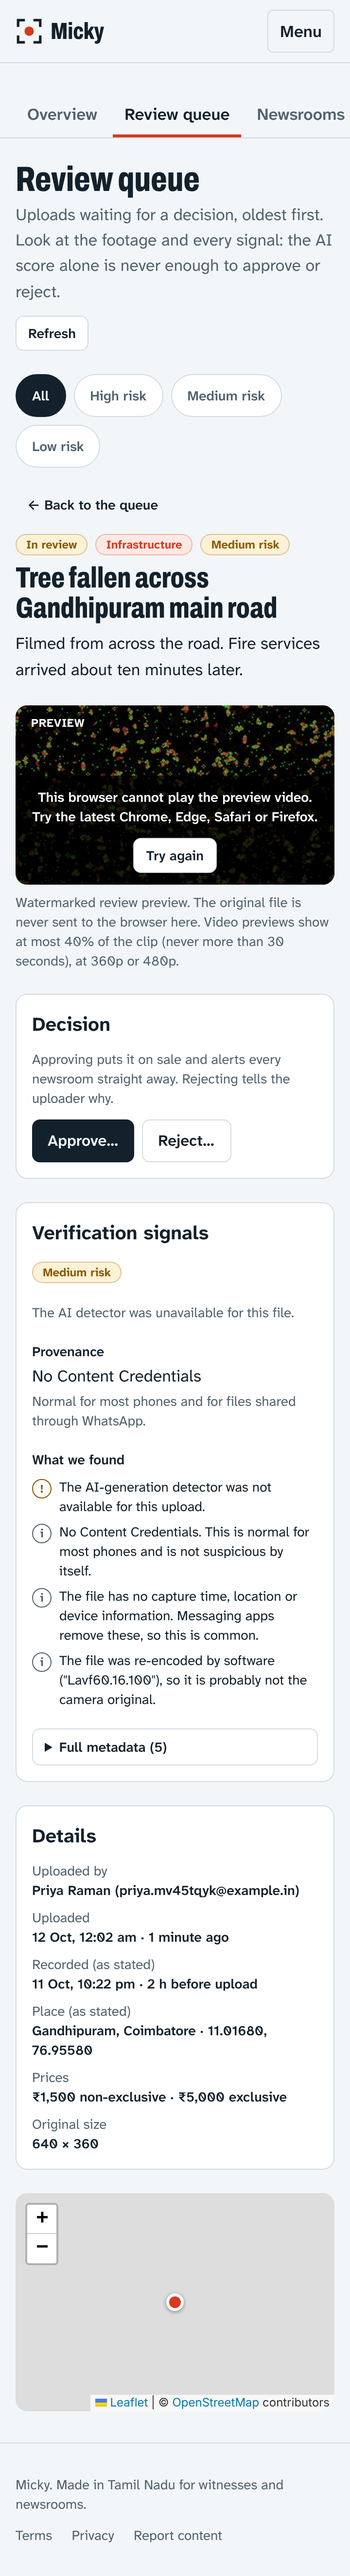
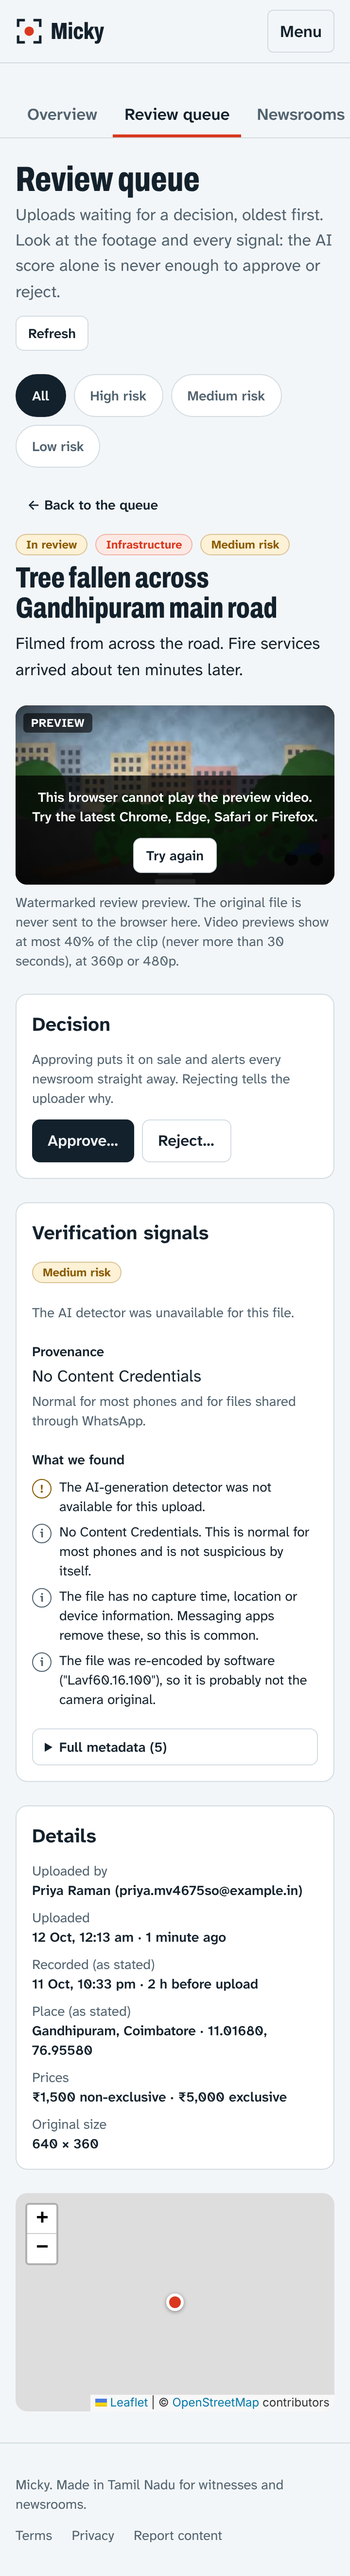
docs: realistic incident footage in the screenshots
e2e/shots/render_scenes.py draws short synthetic phone clips (warehouse fire
at night, overturned bus, flooded street in rain, fallen tree) with numpy and
Pillow, replacing the colour-bar test patterns in the demo data. Clips are
rendered before login because rendering outlasts the e2e access-token TTL.

diff --git a/e2e/shots/screens.spec.ts b/e2e/shots/screens.spec.ts
@@ -6,7 +6,7 @@ import { mkdirSync } from 'node:fs';
 import path from 'node:path';
 import { type Browser, type BrowserContext, type Page, expect, test } from '@playwright/test';
 import { PASSWORD, type Session, approveChannel, approveMedia, call, loginAdmin, register, waitForStatus } from '../support/api.js';
-import { ADMIN_EMAIL, ADMIN_PASSWORD, FIXTURES_DIR, ROOT, WEB_URL } from '../support/env.js';
+import { ADMIN_EMAIL, ADMIN_PASSWORD, E2E_DIR, FIXTURES_DIR, ROOT, WEB_URL } from '../support/env.js';
 import { loginInUi } from '../support/fixtures.js';
 import { queryDb } from '../support/stack.js';
 
@@ -14,23 +14,20 @@ const OUT = path.join(ROOT, 'docs', 'screenshots');
 const run = Date.now().toString(36);
 
 const CLIPS = [
-  { src: 'testsrc2', title: 'Warehouse fire near Chennai Central', category: 'FIRE', lat: 13.0827, lng: 80.2707, place: 'Chennai Central' },
-  { src: 'mandelbrot', title: 'Bus overturned near Tambaram bridge', category: 'ACCIDENT', lat: 12.9249, lng: 80.1, place: 'Tambaram' },
-  { src: 'smptehdbars', title: 'Waterlogging on Anna Salai after heavy rain', category: 'FLOOD', lat: 13.0604, lng: 80.2496, place: 'Anna Salai, near Gemini flyover' },
-  { src: 'life=s=640x360:mold=10:r=25:ratio=0.1:death_color=#C83737:life_color=#00ff00', title: 'Tree fallen across Gandhipuram main road', category: 'INFRASTRUCTURE', lat: 11.0168, lng: 76.9558, place: 'Gandhipuram, Coimbatore' },
+  { scene: 'fire', title: 'Warehouse fire near Chennai Central', category: 'FIRE', lat: 13.0827, lng: 80.2707, place: 'Chennai Central' },
+  { scene: 'bus', title: 'Bus overturned near Tambaram bridge', category: 'ACCIDENT', lat: 12.9249, lng: 80.1, place: 'Tambaram' },
+  { scene: 'flood', title: 'Waterlogging on Anna Salai after heavy rain', category: 'FLOOD', lat: 13.0604, lng: 80.2496, place: 'Anna Salai, near Gemini flyover' },
+  { scene: 'tree', title: 'Tree fallen across Gandhipuram main road', category: 'INFRASTRUCTURE', lat: 11.0168, lng: 76.9558, place: 'Gandhipuram, Coimbatore' },
 ] as const;
 
+/** Renders a synthetic phone clip of the scene (see render_scenes.py), unique per run. */
 function makeClip(i: number): string {
-  const c = CLIPS[i];
   const file = path.join(FIXTURES_DIR, `shot-${i}.mp4`);
-  const src = c.src.includes('=') ? c.src : `${c.src}=size=640x360:rate=25`;
-  execFileSync('ffmpeg', ['-hide_banner', '-loglevel', 'error', '-y', '-f', 'lavfi', '-i', src, '-f', 'lavfi', '-i', 'sine=frequency=330',
-    '-t', '8', '-c:v', 'libx264', '-preset', 'veryfast', '-pix_fmt', 'yuv420p', '-c:a', 'aac', '-shortest',
-    '-metadata', `comment=shots-${run}-${i}`, '-movflags', '+faststart', file]);
+  execFileSync('python3', [path.join(E2E_DIR, 'shots', 'render_scenes.py'), CLIPS[i].scene, file, `shots-${run}-${i}`], { stdio: 'inherit' });
   return file;
 }
 
-async function upload(s: Session, i: number): Promise<string> {
+async function upload(s: Session, i: number, file: string): Promise<string> {
   const c = CLIPS[i];
   const form = new FormData();
   form.set('title', c.title);
@@ -41,7 +38,7 @@ async function upload(s: Session, i: number): Promise<string> {
   form.set('locationName', c.place);
   form.set('capturedAt', new Date(Date.now() - (i + 1) * 25 * 60_000).toISOString());
   form.set('rightsConfirmed', 'true');
-  form.set('file', await openAsBlob(makeClip(i), { type: 'video/mp4' }), `VID_2026101${i}.mp4`);
+  form.set('file', await openAsBlob(file, { type: 'video/mp4' }), `VID_2026101${i}.mp4`);
   const res = await call<{ id: string }>('POST', '/media', { token: s.token, form });
   expect(res.status, JSON.stringify(res.body)).toBe(201);
   return res.body.id;
@@ -74,13 +71,15 @@ test.describe.serial('screenshots', () => {
 
   test('seed demo data', async () => {
     mkdirSync(FIXTURES_DIR, { recursive: true });
+    // Render first: it takes ~45 s, longer than the e2e stack's access-token lifetime.
+    const files = CLIPS.map((_, i) => makeClip(i));
     await queryDb(`UPDATE users SET name = 'Micky Admin' WHERE email = $1`, [ADMIN_EMAIL]);
     const admin = await loginAdmin();
     const uploader = await register('UPLOADER', { name: 'Priya Raman', email: uploaderEmail });
     ids = [];
     // One at a time: the API caps uploads still processing per witness (review M6).
     for (let i = 0; i < CLIPS.length; i++) {
-      ids.push(await upload(uploader, i));
+      ids.push(await upload(uploader, i, files[i]));
       await waitForStatus(uploader, ids[i], 'IN_REVIEW', 120_000);
     }
     for (const id of ids.slice(0, 3)) await approveMedia(admin, id);

diff --git a/e2e/shots/render_scenes.py b/e2e/shots/render_scenes.py
@@ -1,0 +1,259 @@
+"""Renders short synthetic "phone footage" clips for the demo screenshots.
+
+Usage: python3 render_scenes.py <fire|bus|flood|tree> <out.mp4> <unique-comment>
+
+The scenes are drawn procedurally (numpy + Pillow): no real footage, no copyright issues,
+and each run can be made byte-unique with the comment tag. A little camera shake, blur and
+sensor grain make them read like a witness's phone clip rather than a test pattern.
+"""
+
+import subprocess
+import sys
+
+import numpy as np
+from PIL import Image, ImageDraw, ImageFilter
+from scipy.ndimage import gaussian_filter, zoom
+
+W, H, FPS, SECONDS = 640, 360, 25, 8
+rng = np.random.default_rng(7)
+
+
+def gradient(top, bottom, h=H, w=W):
+    t = np.linspace(0, 1, h)[:, None, None]
+    return (np.array(top) * (1 - t) + np.array(bottom) * t) * np.ones((1, w, 1))
+
+
+def noise(h, w, scale, seed):
+    r = np.random.default_rng(seed)
+    out = np.zeros((h, w))
+    amp = 1.0
+    for octave in range(4):
+        s = max(2, int(scale * 2**octave))
+        small = r.random((max(2, h * s // w), s))
+        out += amp * zoom(small, (h / small.shape[0], w / small.shape[1]), order=3)[:h, :w]
+        amp *= 0.5
+    out -= out.min()
+    return out / out.max()
+
+
+def finish(img, t, shake=2.0):
+    """Hand shake, slight blur, sensor grain and vignette."""
+    dx = int(round(shake * np.sin(t * 2.3) + 0.6 * shake * np.sin(t * 5.1)))
+    dy = int(round(shake * np.cos(t * 1.7) + 0.6 * shake * np.sin(t * 4.3)))
+    img = np.roll(img, (dy, dx), axis=(0, 1))
+    pil = Image.fromarray(np.clip(img, 0, 255).astype(np.uint8)).filter(ImageFilter.GaussianBlur(0.7))
+    a = np.asarray(pil).astype(np.float32)
+    a += rng.normal(0, 4.5, a.shape)
+    yy, xx = np.mgrid[0:H, 0:W]
+    v = 1 - 0.35 * (((xx - W / 2) / (W / 2)) ** 2 + ((yy - H / 2) / (H / 2)) ** 2)
+    return np.clip(a * v[..., None], 0, 255).astype(np.uint8)
+
+
+def draw_layer(size=(W, H)):
+    img = Image.new("RGBA", size, (0, 0, 0, 0))
+    return img, ImageDraw.Draw(img)
+
+
+def texture(img, seed, amount=0.22):
+    """Uneven light and grime on flat surfaces, so they don't look like flat cartoon fills."""
+    n = noise(H, W, 40, seed)
+    return img * (1 - amount / 2 + amount * n)[..., None]
+
+
+def composite(base, layer):
+    b = Image.fromarray(np.clip(base, 0, 255).astype(np.uint8)).convert("RGBA")
+    b.alpha_composite(layer)
+    return np.asarray(b.convert("RGB")).astype(np.float32)
+
+
+def buildings(d, y_base, palette, seed, lit=0.0, top=(110, 200)):
+    r = np.random.default_rng(seed)
+    x = -10
+    while x < W:
+        w = int(r.integers(45, 95))
+        h = int(r.integers(*top))
+        col = tuple(int(c) for c in palette[int(r.integers(len(palette)))])
+        d.rectangle([x, y_base - h, x + w, y_base], fill=col + (255,))
+        for wy in range(y_base - h + 10, y_base - 12, 18):
+            for wx in range(x + 7, x + w - 10, 15):
+                if lit and r.random() < lit:
+                    d.rectangle([wx, wy, wx + 7, wy + 9], fill=(255, 200, 110, 230))
+                elif not lit:
+                    d.rectangle([wx, wy, wx + 7, wy + 9], fill=(60, 70, 85, 200))
+        x += w + int(r.integers(0, 6))
+
+
+# --------------------------------------------------------------------------- scenes
+
+
+def scene_fire():
+    sky = gradient((8, 10, 24), (46, 30, 40))
+    layer, d = draw_layer()
+    buildings(d, 250, [(18, 18, 26), (22, 22, 30), (16, 16, 22)], 3, lit=0.18, top=(60, 150))
+    # The warehouse: a long low shed with a sloped roof.
+    d.polygon([(140, 200), (330, 160), (500, 200), (500, 300), (140, 300)], fill=(34, 28, 28, 255))
+    for wx in range(165, 480, 55):
+        d.rectangle([wx, 235, wx + 30, 262], fill=(20, 16, 16, 255))
+    d.rectangle([0, 300, W, H], fill=(28, 28, 30, 255))  # road
+    for px in (60, 580):
+        d.rectangle([px, 150, px + 4, 300], fill=(40, 40, 44, 255))
+        d.ellipse([px - 8, 140, px + 12, 152], fill=(255, 220, 160, 255))
+    base = composite(sky, layer)
+
+    yy, xx = np.mgrid[0:H, 0:W]
+    roof = np.where(xx < 330, 200 - (xx - 140) * 40 / 190, 160 + (xx - 330) * 40 / 170)
+    inside = (xx > 150) & (xx < 490)
+    height = 70 + 50 * np.exp(-((xx - 300) / 90) ** 2) + 30 * np.exp(-((xx - 430) / 40) ** 2)
+    flame_mask = np.clip(1 - (roof - yy) / height, 0, 1) * (yy < roof + 8) * inside
+    window_mask = np.zeros((H, W))
+    for wx in range(165, 480, 55):
+        window_mask[235:263, wx:wx + 31] = 0.9
+    fire_noise = noise(H * 3, W, 10, 11)
+    smoke_noise = noise(H * 3, W, 5, 12)
+    for f in range(FPS * SECONDS):
+        t = f / FPS
+        off = int(t * 120) % (H * 2)
+        n = fire_noise[H * 2 - off: H * 3 - off] if off else fire_noise[H * 2:]
+        n = fire_noise[(np.arange(H) + H * 2 - off) % (H * 3)]
+        flick = 0.9 + 0.1 * np.sin(t * 13)
+        inten = np.clip((n * 1.25 - 0.35) * np.maximum(flame_mask, window_mask) * flick, 0, 1) ** 1.3
+        sm = smoke_noise[(np.arange(H) + H * 2 - int(t * 40)) % (H * 3)]
+        smoke_mask = np.clip((roof - 40 - yy) / 160, 0, 1) * np.exp(-((xx - 320 - (roof - yy) * 0.35) / 170) ** 2)
+        smoke = np.clip(sm * 1.3 - 0.25, 0, 1) * smoke_mask
+        img = base * (1 - 0.75 * smoke[..., None]) + np.array([70, 64, 62]) * 0.75 * smoke[..., None]
+        fire = np.stack([np.clip(inten * 2.2, 0, 1), np.clip(inten * 1.7 - 0.45, 0, 1), np.clip(inten * 2 - 1.5, 0, 1)], -1) * 255
+        glow = gaussian_filter(inten, 30) * 3.2
+        img = img + fire + glow[..., None] * np.array([255, 120, 40]) * flick
+        yield finish(img, t, 1.8)
+
+
+def street(top_sky, bottom_sky, palette, seed):
+    sky = gradient(top_sky, bottom_sky)
+    layer, d = draw_layer()
+    buildings(d, 215, palette, seed, top=(70, 150))
+    d.polygon([(0, 215), (W, 215), (W, H), (0, H)], fill=(84, 84, 88, 255))
+    d.polygon([(0, 215), (W, 215), (W, 228), (0, 228)], fill=(120, 116, 108, 255))  # footpath
+    for i in range(6):
+        y = 250 + i * 20
+        d.rectangle([310 - i * 6, y, 330 + i * 6, y + 6 + i], fill=(225, 225, 215, 255))
+    return sky, layer, d
+
+
+PASTEL = [(214, 181, 140), (176, 196, 186), (205, 160, 150), (190, 186, 210), (225, 210, 170), (160, 175, 190)]
+
+
+def person(d, x, y, s, col):
+    d.ellipse([x - 5 * s, y - 34 * s, x + 5 * s, y - 24 * s], fill=(70, 50, 40, 255))
+    d.rounded_rectangle([x - 7 * s, y - 24 * s, x + 7 * s, y], radius=3, fill=col + (255,))
+
+
+def scene_bus():
+    sky, layer, d = street((168, 176, 186), (208, 210, 214), PASTEL, 5)
+    base = texture(composite(sky, layer), 31)
+    # An overturned bus lying on its side across the road.
+    bus, b = draw_layer((300, 110))
+    b.rounded_rectangle([0, 10, 299, 100], radius=14, fill=(204, 78, 44, 255))
+    b.rectangle([0, 55, 299, 66], fill=(240, 236, 226, 255))
+    for wx in range(18, 280, 34):
+        b.rectangle([wx, 20, wx + 26, 48], fill=(48, 60, 78, 255))
+    for wx in (40, 240):
+        b.ellipse([wx - 20, 88, wx + 20, 112], fill=(22, 22, 24, 255))
+    bus = bus.rotate(-7, expand=True, resample=Image.BICUBIC)
+    glass, g = draw_layer()
+    for _ in range(140):
+        gx, gy = rng.integers(150, 520), rng.integers(300, 345)
+        g.point((int(gx), int(gy)), fill=(200, 215, 225, 200))
+    people = [(90, 300, 1.2, (40, 70, 140)), (118, 304, 1.25, (180, 40, 60)), (540, 298, 1.15, (230, 230, 230)), (575, 305, 1.3, (60, 110, 70))]
+    for f in range(FPS * SECONDS):
+        t = f / FPS
+        frame, fd = draw_layer()
+        frame.alpha_composite(bus, (170, 205))
+        for i, (x, y, s, col) in enumerate(people):
+            person(fd, x + 3 * np.sin(t * 0.8 + i), y, s, col)
+        img = composite(base, glass)
+        img = composite(img, frame)
+        yield finish(img, t, 2.2)
+
+
+def scene_flood():
+    sky = gradient((86, 92, 100), (128, 134, 140))
+    layer, d = draw_layer()
+    buildings(d, 240, [(150, 140, 125), (140, 150, 150), (165, 150, 140), (130, 135, 145)], 8, top=(80, 170))
+    upper = texture(composite(sky, layer), 32)
+    water_y = 238
+    yy, xx = np.mgrid[0:H, 0:W]
+    ripple = noise(H, W * 2, 18, 21)
+    vehicles, v = draw_layer()
+    v.rounded_rectangle([110, 262, 230, 300], radius=10, fill=(230, 200, 40, 255))  # auto-rickshaw roof
+    v.rectangle([120, 270, 220, 286], fill=(40, 50, 60, 255))
+    v.rounded_rectangle([400, 268, 560, 300], radius=12, fill=(200, 205, 210, 255))  # submerged car roof
+    v.rectangle([420, 274, 540, 288], fill=(55, 65, 80, 255))
+    drops = rng.random((900, 2)) * [W, H]
+    for f in range(FPS * SECONDS):
+        t = f / FPS
+        img = upper.copy()
+        refl = upper[np.clip(2 * water_y - yy, 0, H - 1), xx] * 0.45
+        shift = int(t * 30) % W
+        rp = ripple[:, shift:shift + W]
+        water = np.array([108, 98, 78]) * 0.6 + refl * 0.55 + (rp[..., None] - 0.5) * 38
+        img[water_y:] = water[water_y:]
+        img = composite(img, vehicles)
+        rain, rd = draw_layer()
+        pts = (drops + [t * 40, t * 520]) % [W, H]
+        for x, y in pts[: 500 + 100 * (f % 4)]:
+            rd.line([(x, y), (x - 3, y + 14)], fill=(220, 225, 230, 90), width=1)
+        img = composite(img, rain)
+        yield finish(img, t, 1.5)
+
+
+def scene_tree():
+    sky, layer, d = street((150, 186, 214), (212, 224, 232), PASTEL, 13)
+    for cx, cy, r in [(40, 170, 60), (600, 160, 70), (520, 185, 45)]:
+        d.ellipse([cx - r, cy - r, cx + r, cy + r], fill=(56, 110, 52, 255))
+    base = texture(composite(sky, layer), 33)
+    trunk, tdraw = draw_layer()
+    tdraw.polygon([(30, 330), (70, 352), (560, 250), (548, 236)], fill=(96, 66, 42, 255))
+    tdraw.polygon([(30, 330), (56, 345), (548, 236), (545, 230)], fill=(118, 84, 54, 255))
+    for x0, y0, x1, y1 in [(200, 300, 230, 255), (330, 275, 380, 300), (430, 258, 450, 220), (480, 250, 540, 280)]:
+        tdraw.line([(x0, y0), (x1, y1)], fill=(90, 62, 40, 255), width=7)
+    leaves = rng.random((260, 3)) * [420, 120, 1] + [170, 190, 0]
+    scooter, s = draw_layer()
+    s.ellipse([590, 296, 616, 322], fill=(25, 25, 25, 255))
+    s.ellipse([540, 296, 566, 322], fill=(25, 25, 25, 255))
+    s.polygon([(548, 300), (600, 300), (610, 280), (575, 276)], fill=(30, 90, 170, 255))
+    for f in range(FPS * SECONDS):
+        t = f / FPS
+        frame, fd = draw_layer()
+        frame.alpha_composite(trunk)
+        for i, (x, y, k) in enumerate(leaves):
+            sway = 2.5 * np.sin(t * 2 + i)
+            g = int(90 + 70 * k)
+            r = 9 + 6 * k
+            fd.ellipse([x + sway - r, y - r, x + sway + r, y + r], fill=(40, g, 38, 235))
+        frame.alpha_composite(scooter)
+        person(fd, 620, 300, 1.2, (150, 60, 140))
+        img = composite(base, frame)
+        yield finish(img, t, 1.6)
+
+
+SCENES = {"fire": scene_fire, "bus": scene_bus, "flood": scene_flood, "tree": scene_tree}
+
+
+def main():
+    name, out, comment = sys.argv[1], sys.argv[2], sys.argv[3]
+    ff = subprocess.Popen(
+        ["ffmpeg", "-hide_banner", "-loglevel", "error", "-y",
+         "-f", "rawvideo", "-pix_fmt", "rgb24", "-s", f"{W}x{H}", "-r", str(FPS), "-i", "-",
+         "-f", "lavfi", "-i", "anoisesrc=color=brown:amplitude=0.08",
+         "-t", str(SECONDS), "-c:v", "libx264", "-preset", "veryfast", "-pix_fmt", "yuv420p",
+         "-c:a", "aac", "-shortest", "-metadata", f"comment={comment}", "-movflags", "+faststart", out],
+        stdin=subprocess.PIPE,
+    )
+    for frame in SCENES[name]():
+        ff.stdin.write(frame.tobytes())
+    ff.stdin.close()
+    sys.exit(ff.wait())
+
+
+if __name__ == "__main__":
+    main()
